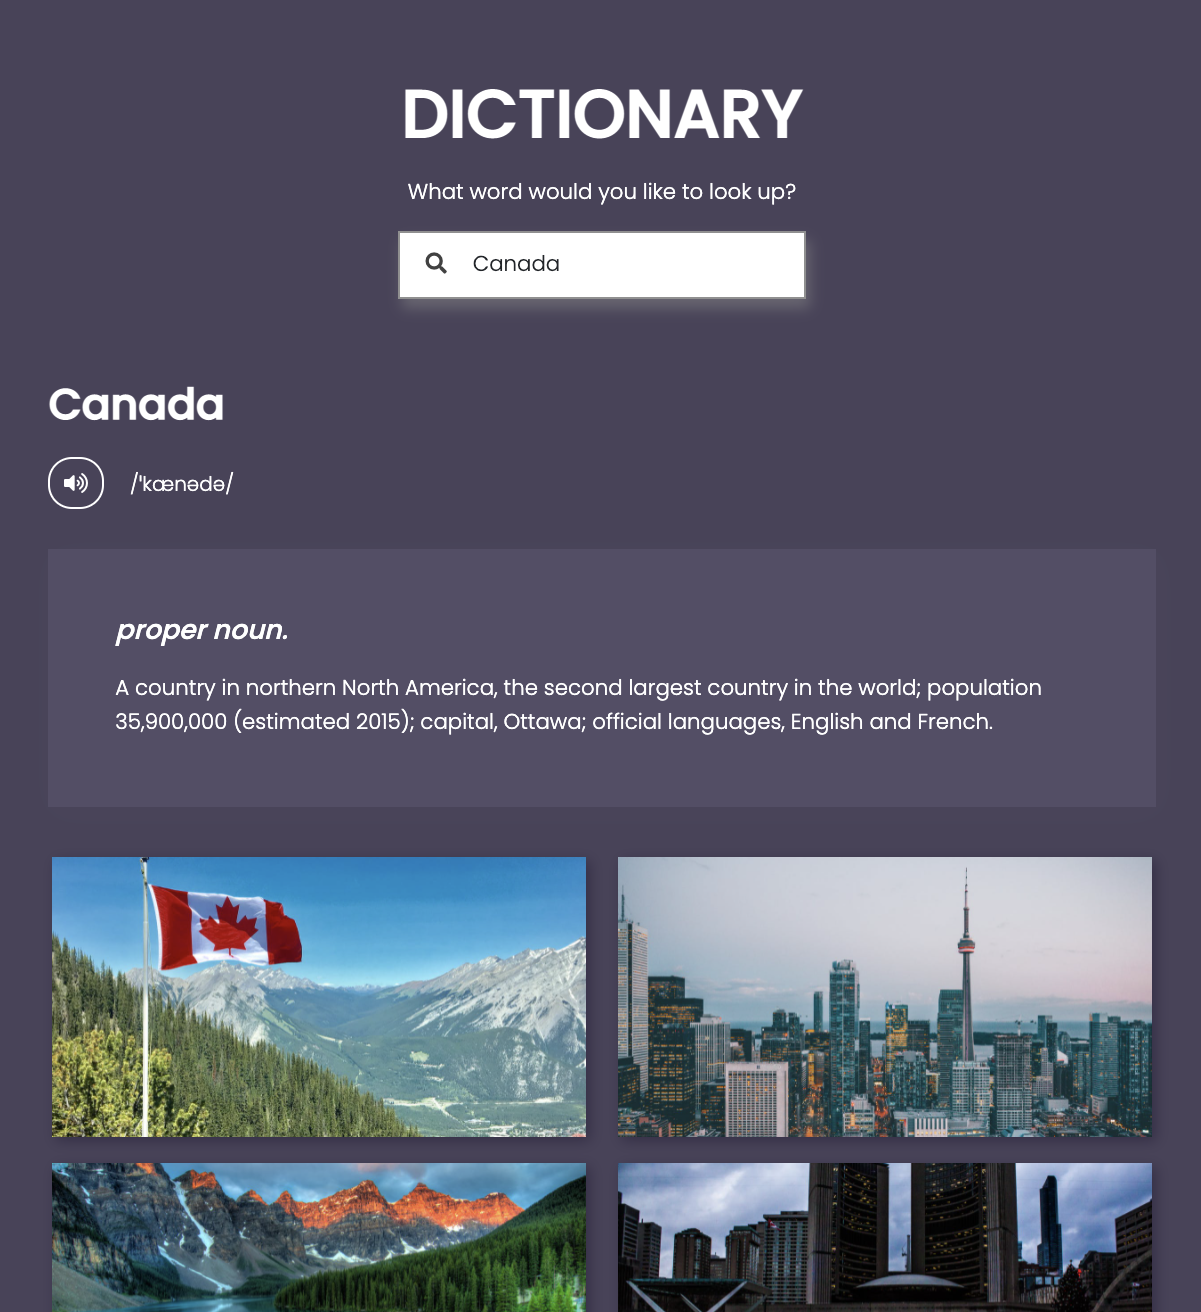
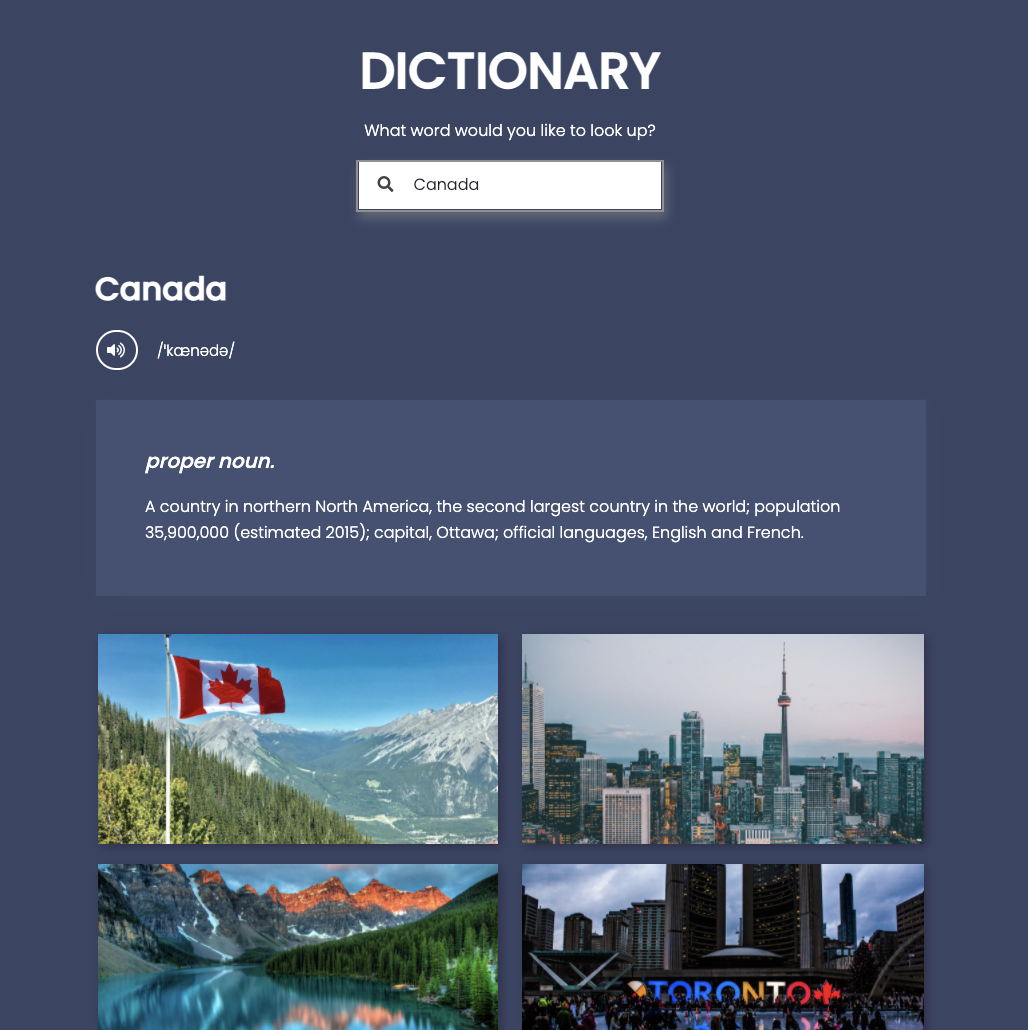
Updated content and CSS

diff --git a/index.html b/index.html
@@ -178,7 +178,7 @@
             <div class="col-lg-6 d-none d-lg-block mt-5 text-center">
               <img
                 src="/images/animal-shelters.png"
-                class="img-fluid shadow-lg mb-4 d-none d-sm-block"
+                class="img-fluid mb-4 d-none d-sm-block"
                 title="Animal Shelters project preview"
                 alt="Animal Shelters project"
               />
@@ -240,7 +240,7 @@
             <div class="col-lg-6 d-none d-lg-block mt-5">
               <img
                 src="/images/weather-app.png"
-                   class="img-fluid shadow-lg mb-4 d-none d-sm-block"
+                   class="img-fluid  mb-4 d-none d-sm-block"
                 title="Weather App project preview"
                 alt="Weather App project"
               />
@@ -251,7 +251,7 @@
             <div class="col-lg-6 d-none d-lg-block mt-5 text-center">
               <img
                 src="/images/react-weather-app.png"
-                   class="img-fluid shadow-lg mb-4 d-none d-sm-block"
+                   class="img-fluid mb-4 d-none d-sm-block"
                 title="React Weather App project preview"
                 alt="React Weather App project"
               />
@@ -264,7 +264,7 @@
                   class="mt-4 text-muted text-justify featured-project-description"
                 >
                  React.js is one of the most in-demand JavaScript Frameworks today. It's currently used by major brands like Netflix, Facebook, Instagram, Uber, Tesla, Skype, and many more. 
-                 Building on topic of a popular API, this weather app pulls real-life weather data to display the current weather and a 5-day forecast with animated weather icons.
+                 Building on top of a popular API, this weather app pulls real-life weather data to display the current weather and a 5-day forecast with animated weather icons.
                 </p>
                 <a
                   href="/work.html"
@@ -283,7 +283,7 @@
                 <p
                   class="mt-4 text-muted text-justify featured-project-description"
                 >
-                 In addition to the React weather app, I used my knowledge of this highly-demanded framework to build a working dictionary app incorporating coding best practices, along with the most popular tools and technologies.
+                 In addition to the React weather app, I built a working dictionary app incorporating coding best practices, along with the most popular tools and technologies.
                 </p>
                 <a
                   href="/work.html"
@@ -297,7 +297,7 @@
             <div class="col-lg-6 d-none d-lg-block mt-5">
               <img
                 src="/images/react-dictionary-app.png"
-                   class="img-fluid shadow-lg mb-4 d-none d-sm-block"
+                   class="img-fluid  mb-4 d-none d-sm-block"
                 title="Dictionary App project preview"
                 alt="Dictionary App project"
               />

diff --git a/work.html b/work.html
@@ -101,13 +101,13 @@
     <div class="container project-section text-center">
       <div class="project-content">
         <h1 class="mb-4 project-heading">PORTFOLIO</h1>
-    
+
         <div class="row">
           <!--Animal Shelters Webpage-->
           <div class="col-md-6 mb-4 mt-4">
             <img
               src="images/animal-shelters.png"
-              class="img-fluid rounded border border-light shadow mb-4"
+              class="img-fluid mb-4"
               title="Animal Shelters project preview"
               alt="Animal Shelters project preview"
             />
@@ -138,7 +138,7 @@
           <div class="col-md-6 mb-4 mt-4">
             <img
               src="images/weather-app.png"
-              class="img-fluid rounded p-2 border border-light shadow mb-4"
+              class="img-fluid mb-4"
               title="Vanilla JS Weather App project preview"
               alt="Vanilla JS Weather App project preview"
             />
@@ -168,17 +168,19 @@
             </div>
           </div>
 
-           <div class="row">
+          <div class="row"></div>
           <!--React Weather App-->
           <div class="col-md-6 mb-4 mt-4">
             <img
               src="images/react-weather-app.png"
-              class="img-fluid rounded p-2 border border-light shadow mb-4"
+              class="img-fluid mb-4"
               title="React Weather App project preview"
               alt="React Weather App project preview"
             />
             <h4 class="mt-4">React Weather App</h4>
-            <p class="mt-3 text-muted">Built with HTML, CSS, JavaScript and React</p>
+            <p class="mt-3 text-muted">
+              Built with HTML, CSS, JavaScript and React
+            </p>
             <div class="text-center">
               <a
                 href="https://romantic-lovelace-e67a5e.netlify.app/"
@@ -200,11 +202,11 @@
             </div>
           </div>
 
-             <!--React Dictionary App-->
+          <!--React Dictionary App-->
           <div class="col-md-6 mb-4 mt-4">
             <img
               src="images/react-dictionary-app.png"
-              class="img-fluid rounded p-2 border border-light shadow mb-4"
+              class="img-fluid mb-4"
               title="Vanilla JS Weather App project preview"
               alt="Vanilla JS Weather App project preview"
             />
@@ -232,7 +234,7 @@
                 repository</a
               >
             </div>
-
+          </div>
         </div>
       </div>
 

diff --git a/styles/portfolio.css b/styles/portfolio.css
@@ -42,6 +42,10 @@ h5 {
   font-weight: 500;
 }
 
+img {
+  box-shadow: 3px 3px 10px rgba(44, 37, 63, 0.712);
+}
+
 p {
   font-size: 17px;
   font-weight: 300;
@@ -310,11 +314,11 @@ footer .contact-box p {
 /* Project section */
 
 .project-section {
-  padding: 160px 50px 0;
+  padding: 160px 20px 0;
 }
 
 .project-content {
-  margin-bottom: 100px;
+  margin-bottom: 20px;
 }
 
 .project-subheading {
